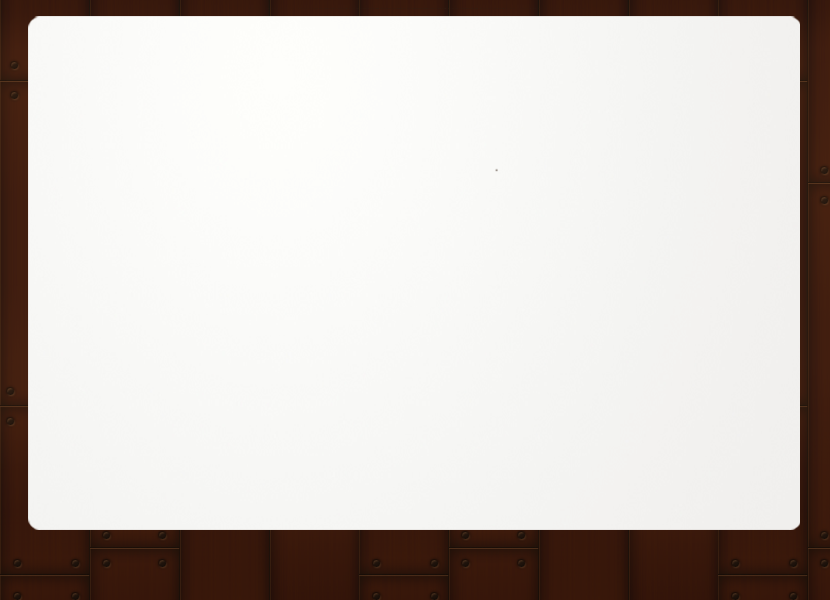
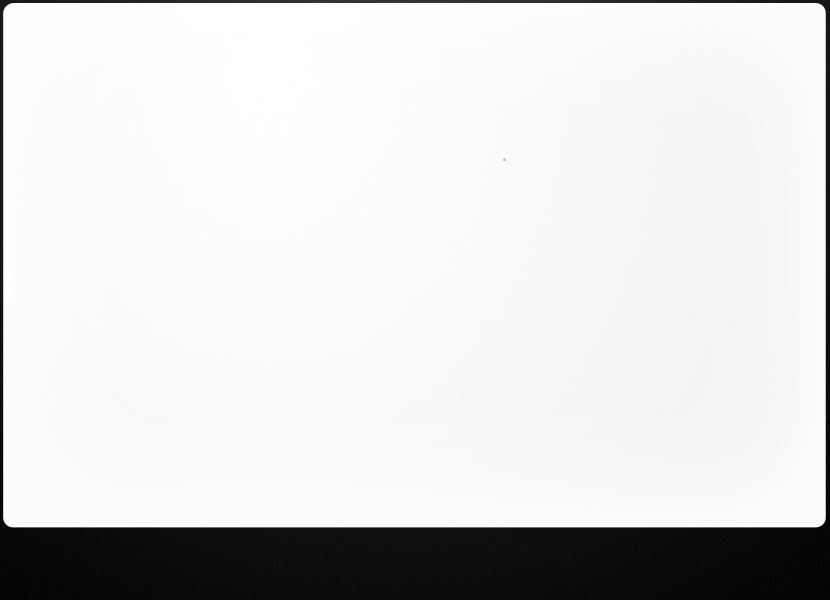
Added New Feeds Changed the readerviewer page as u told

Changed region(s): [[0.0, 0.0, 1.0, 1.0]]

diff --git a/popup.html b/popup.html
@@ -149,7 +149,6 @@
              
              <div id="tech-feeds" class="fdkadiv">
 			 <li data-id="http://www.anandtech.com/rss/articlefeed.aspx" class="tech tosubscr"><img src="assets/img/shots/anand.png" alt="Anand Tech" title="Anand Tech"class='feedimage'/><div class='caption'></div><div class='fdname'>Anand Tech</div></li>
-            <li data-id="http://www.digitaltrends.com/feed" class="tech tosubscr"><img src="assets/img/shots/digtr.png" alt="DIGITAL TRENDS" title="Digital Trends"class='feedimage'/><div class='caption'></div><div class='fdname'>Digital Trends</div></li>
              <li data-id="http://www.engadget.com/rss.xml" class="tech tosubscr"><img src="assets/img/shots/engdg.png" alt="ENGADGET" title="Engadget"class='feedimage'/><div class='caption'></div><div class='fdname'>Engadget</div></li>
              <li data-id="http://www.gizmodo.com/index.xml" class="tech tosubscr"><img src="assets/img/shots/gizmodo.png" alt="Gizmodo" title="Gizmodo"class='feedimage'/><div class='caption'></div><div class='fdname'>Gizmodo</div></li>
              <li data-id="http://lifehacker.com/index.xml"class="tech tosubscr"><img src="assets/img/shots/lifhck.png" alt="LIFEHACKER" title="Lifehacker"class='feedimage'/><div class='caption'></div><div class='fdname'>Lifehacker</div></li>
@@ -159,13 +158,13 @@
              </div>
              
              <div id="compu-feeds" class="fdkadiv">
-			 <li data-id="http://news.softpedia.com/newsRSS/Microsoft-6.xml" class="compu tosubscr"><img src="assets/img/shots/softmicro.png" alt="Softpedia - Microsoft" title="Softpedia - Microsoft"class='feedimage'/><div class='caption'></div><div class='fdname'>Softpedia - Microsoft</div></li>
+			 <li data-id="http://www.appleinsider.com/appleinsider.rss" class="compu tosubscr"><img src="assets/img/shots/appleinside.png" alt="AppleInsider" title="AppleInsider"class='feedimage'/><div class='caption'></div><div class='fdname'>AppleInsider</div></li>
 			 <li data-id="http://codebetter.com/blogs/MainFeed.aspx" class="compu tosubscr"><img src="assets/img/shots/codebetr.png" alt="CodeBetter.Com" title="CodeBetter.Com"class='feedimage'/><div class='caption'></div><div class='fdname'>CodeBetter.Com</div></li>
-			 <li data-id="http://www.f-secure.com/weblog/weblog.rdf" class="compu tosubscr"><img src="assets/img/shots/fsecure.png" alt="F-Secure Antivirus Research Weblog" title="F-Secure Antivirus Research Weblog"class='feedimage'/><div class='caption'></div><div class='fdname'>F-Secure Antivirus Research Weblog</div></li>
-			 <li data-id="http://www.appleinsider.com/appleinsider.rss" class="compu tosubscr"><img src="assets/img/shots/appinside.png" alt="AppleInsider" title="AppleInsider"class='feedimage'/><div class='caption'></div><div class='fdname'>AppleInsider</div></li>
-			 <li data-id="http://www.computerworld.com/news/xml/10/0,5009,,00.xml" class="compu tosubscr"><img src="assets/img/shots/cworld.png" alt="Computer World" title="Computer World"class='feedimage'/><div class='caption'></div><div class='fdname'>Computer World</div></li>
+			 <li data-id="http://rss.computerworld.com/computerworld/news/feed?type=breaking_news" class="compu tosubscr"><img src="assets/img/shots/cworld.png" alt="Computer World" title="Computer World"class='feedimage'/><div class='caption'></div><div class='fdname'>Computer World</div></li>
+			 <li data-id="http://www.f-secure.com/weblog/weblog.rdf" class="compu tosubscr"><img src="assets/img/shots/fsecure.png" alt="F-Secure Antivirus Research Weblog" title="F-Secure Antivirus Research Weblog"class='feedimage'/><div class='caption'></div><div class='fdname'>F-Secure Antivirus Research</div></li>
+			 <li data-id="http://www.macrumors.com/macrumors.xml" class="compu tosubscr"><img src="assets/img/shots/macrumours.png" alt="MacRumors" title="MacRumors"class='feedimage'/><div class='caption'></div><div class='fdname'>MacRumors</div></li>
 			 <li data-id="http://rss.slashdot.org/Slashdot/slashdotLinux" class="compu tosubscr"><img src="assets/img/shots/slashlin.png" alt="Slashdot: Linux" title="Slashdot: Linux"class='feedimage'/><div class='caption'></div><div class='fdname'>Slashdot: Linux</div></li>
-			 <li data-id="http://www.macrumors.com/macrumors.xml" class="compu tosubscr"><img src="assets/img/shots/mrumours.png" alt="MacRumors" title="MacRumors"class='feedimage'/><div class='caption'></div><div class='fdname'>MacRumors</div></li>
+			 <li data-id="http://news.softpedia.com/newsRSS/Microsoft-6.xml" class="compu tosubscr"><img src="assets/img/shots/softmicro.png" alt="Softpedia - Microsoft" title="Softpedia - Microsoft"class='feedimage'/><div class='caption'></div><div class='fdname'>Softpedia - Microsoft</div></li>
 			 </div>
               <div id="science-feeds" class="fdkadiv">   
               <li data-id="http://scienceblogs.com/cognitivedaily/atom.xml" class="science tosubscr"><img src="assets/img/shots/cogdaily.png" alt="COGNITIVE DAILY" title="Cognitive Daily"class='feedimage'/><div class='caption'></div><div class='fdname'>Cognitive Daily</div></li>

diff --git a/css/styles.css b/css/styles.css
@@ -192,7 +192,7 @@ background-color:#06F;
     margin-left:31px;
     background-image: -webkit-gradient(radial, center bottom, 0, center bottom, 490, color-stop(0, #85d003), color-stop(1, #68b402));
     border-radius:10px 10px 0 0; 
-    width:682px;
+    width:771px;
     height:26px;
 }
 .filter li{
@@ -828,16 +828,21 @@ right:0px;
 }
 .readerFooterElem
 {
+	cursor:pointer;
 	font-family:'Segoe UI',Arial, sans-serif;
-    color:#888;
+    
+	color: #eee;
     text-shadow: none;
-	margin:-8px 25px 0 10px ;
-    width: 125px;
+	margin: -8px 26px 0 0;
+    
+	width: 135px;
     float:left;
     font-size:12px;
     padding:4px 0 6px 22px;
 	display:none;
    /* background:url('../img/arrow2.png') 0 0 no-repeat; */
+;
+	font-weight: bold;
 }
 #viewOptionsBox{
 	border: none;
@@ -861,6 +866,7 @@ right:0px;
 .readerFooterElem img
 {
 	vertical-align:middle;
+	margin-right: 5px;
 	margin-left:5px;
 }
 /*--------------------------------------------------------
@@ -892,6 +898,8 @@ right:0px;
     font-size: 15px;
     line-height: 160%;
     font-weight:100%;
+	padding: 20px 0px 20px 10px;
+	overflow-y: scroll;
 }
 .textSlide h2 a{
     font:bold 30px Helvetica, Sans-Serif;
@@ -911,7 +919,7 @@ margin-bottom:15px;
 -webkit-animation-duration: 1000ms, 300ms;
 -webkit-animation-delay: 0ms, 1000ms;
 }
-.textSlide             { padding: 15px 0px 0 10px; overflow-y: scroll;}
+.textSlide             {}
 .textSlide h3          { font: 20px Georgia, Serif; }
 .textSlide h4          { text-transform: uppercase; font: 15px Georgia, Serif; margin: 10px 0; }
 .textSlide ul          { list-style: disc; margin: 0; padding-left: 20px; }

diff --git a/css/anythingslider.css b/css/anythingslider.css
@@ -11,7 +11,7 @@
 /* change the ID to match your slider */
 #slider {
 	width: 100%;
-	min-height:511px;
+	height:100%;
 	/*height:100%;*/
 	
 	list-style: none;
@@ -79,10 +79,9 @@ div.anythingSlider .start-stop:hover, div.anythingSlider .start-stop.hover {
 /* Overall Wrapper: 45px right & left padding for the arrows, 28px @ bottom for navigation */
 div.anythingSlider {
 	display: block;
-	margin: 0 auto;
+	margin: -5px 0 0 3px;
 	overflow: visible !important; /* needed for Opera and Safari */
 	position: relative;
-	padding: 10px 40px 28px 29px;
 }
 /* anythingSlider viewport window */
 div.anythingSlider .anythingWindow {
@@ -90,8 +89,8 @@ div.anythingSlider .anythingWindow {
 //	overflow-x:hidden;
 	border-radius:12px;
 	position: relative;
-	width: 771px;
-	height: 511px;
+	width: 823px;
+	height: 525px;
 }
 /* anythingSlider base (original element) */
 .anythingBase {
@@ -113,8 +112,8 @@ div.anythingSlider .anythingWindow {
 	overflow-x:hidden;
 	float: left;
 	padding: 0;
-	width:771px;
-	height:511px;
+	width:820px;
+	height:525px;
 	margin: 0;
 }
 .anythingBase .panel.vertical {
@@ -133,6 +132,7 @@ div.anythingSlider .arrow a {
 	margin: -70px -0px 0 -12px; /* half height of image */
 	width: 45px;
 	text-align: center;
+	opacity:0.7;
 	outline: 0;
 	background: url(../img/feedbutton.png) no-repeat;
 }

diff --git a/js/ReaderViewer.js b/js/ReaderViewer.js
@@ -47,7 +47,7 @@ var ReaderViewer = {
 		
 		// Click event for minimise button
 		$("#minimizeHeadlines").live('click',function(){ $("#rdrheadl").slideUp();});
-	    
+	   
 		// Click event for nextHeadlines button
 		$("#hnext").live('click',function(){
 			switchToLoadingView(true);
@@ -131,6 +131,7 @@ var ReaderViewer = {
 			$("#slider").append(lielement);
 		}
 	},
+	
 	renderSliderFeed : function(feeds,minindex,maxindex,isFirstTime){
 		
 		$("#feedurldiv").html(feeds.feedUrl);
@@ -248,3 +249,4 @@ var ReaderViewer = {
 	}
 */
 }
+ 
